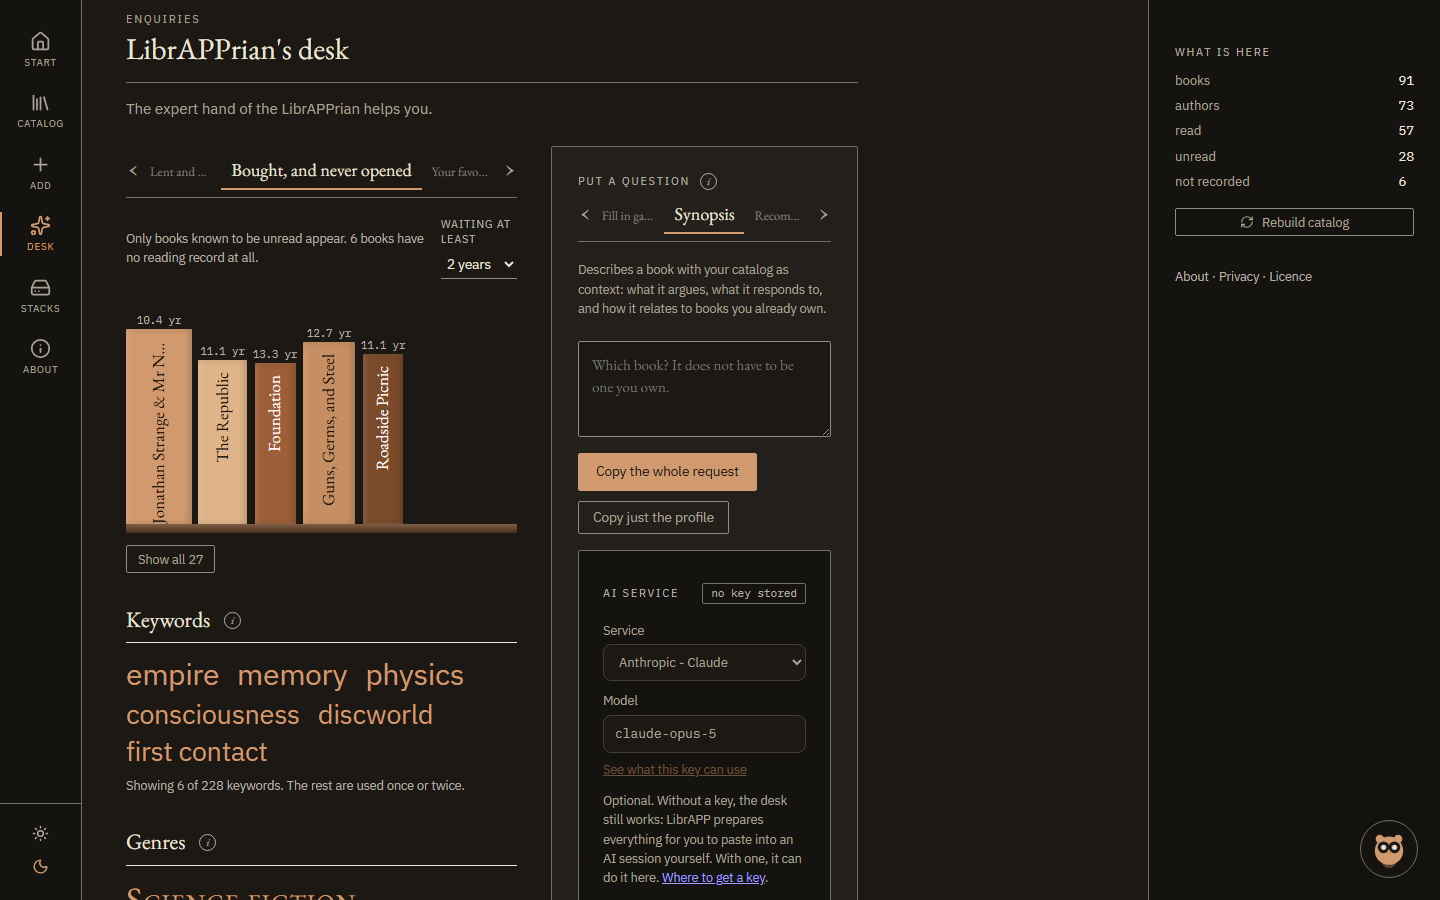
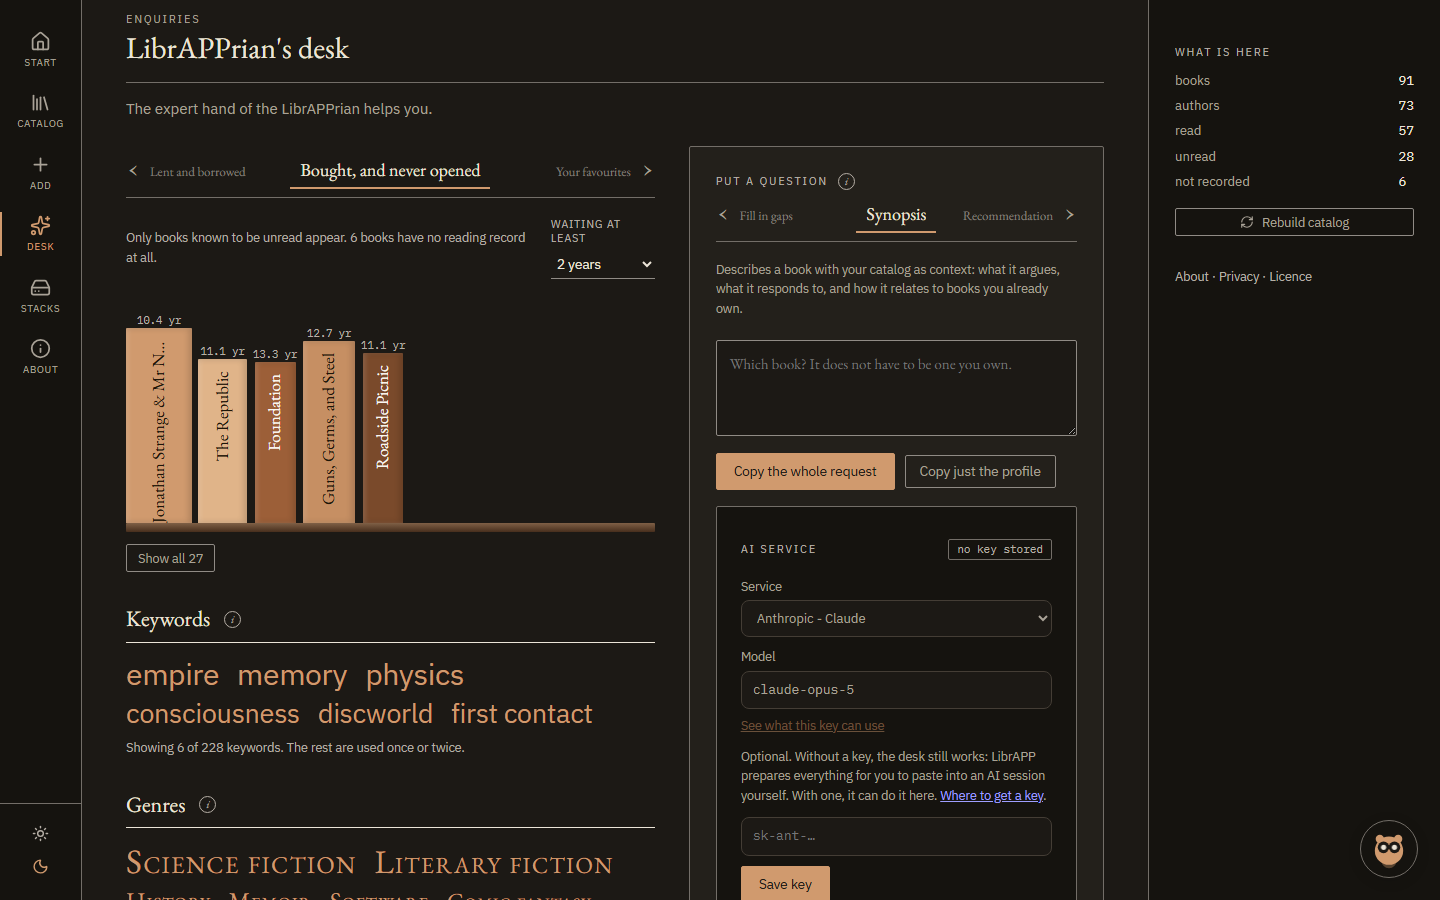
Let the desk use the full width of a wide screen
The desk was held to the same 820px column as the other pages, which left
the right of a wide screen empty beside two cramped columns. It now takes
the full width between the rail and the holdings, like the catalog, and
opens its two columns when its own column is wide enough rather than when
the window is. Version 2.7.1.

diff --git a/web/src/styles.css b/web/src/styles.css
@@ -694,6 +694,9 @@ button, input, select, textarea { font: inherit; color: inherit; }
 /* The catalog takes the whole width between the rail and the holdings: a
    shelf is the one page that fills whatever room it is given. */
 .shell[data-view='catalog'] .main { max-width: none; }
+/* The desk is two columns of panels side by side, and the same goes for it. */
+.shell[data-view='desk'] .main { max-width: none; }
+.main { container: main / inline-size; }
 
 .search {
   display: flex;
@@ -1922,7 +1925,10 @@ pre.snippet {
 /* ----------------------------------------------------------------- desk -- */
 
 .desk-grid { display: grid; grid-template-columns: 1fr; gap: 34px; }
-@media (min-width: 1000px) { .desk-grid { grid-template-columns: 1.12fr .88fr; align-items: start; } }
+/* Two columns once the desk itself has the room, measured on the column it sits
+   in rather than on the window: the rail and the holdings take their share of a
+   wide screen first. */
+@container main (min-width: 860px) { .desk-grid { grid-template-columns: 1.12fr .88fr; align-items: start; } }
 
 /* Sections rather than boxes. The heading rule does the separating, which is
    what makes the page read as typeset rather than as a dashboard. */

diff --git a/CHANGELOG.md b/CHANGELOG.md
@@ -1,5 +1,12 @@
 # Changelog
 
+## v2.7.1
+
+The desk takes the full width between the rail and the holdings on a wide
+screen, as the catalog does. It was held to the same 820px column as the other
+pages and left the right of the screen empty. Its two columns now open when the
+desk itself has the room, measured on its own column rather than on the window.
+
 ## v2.7.0
 
 ### A new shell
